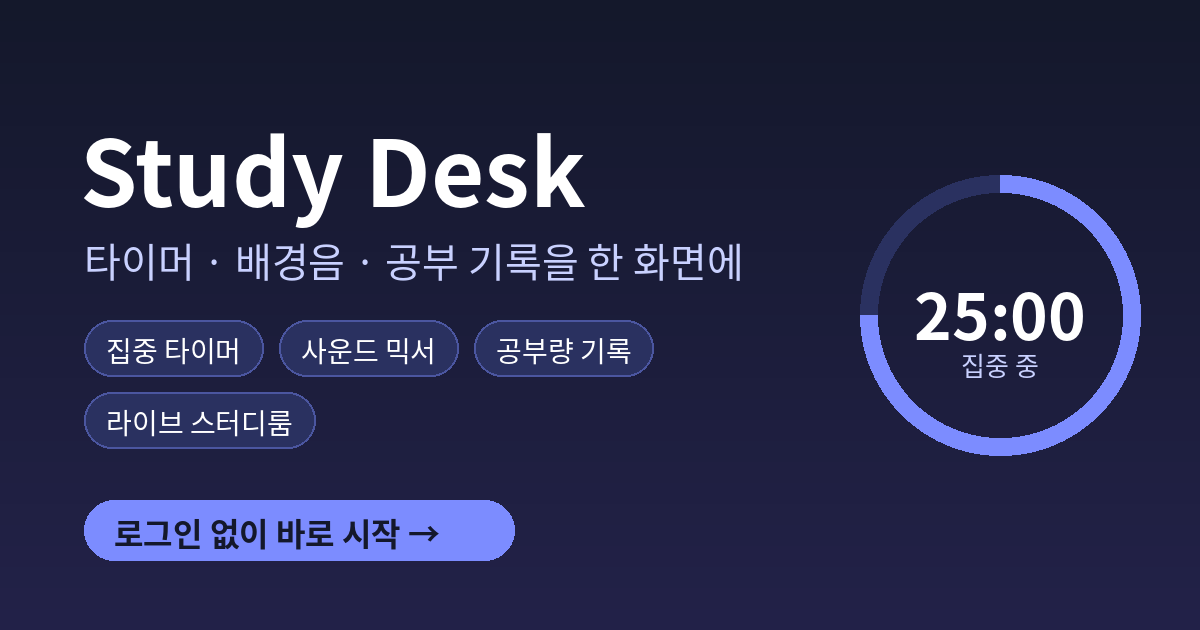
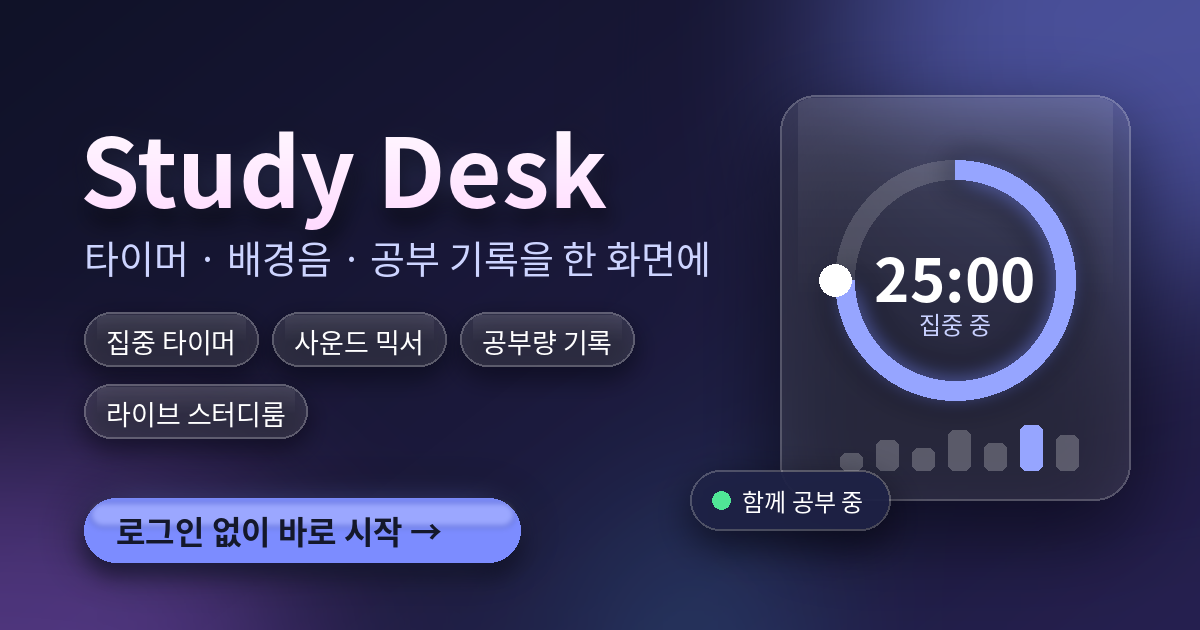
Redesign share preview image with 3D glass style
Claude-Session: https://claude.ai/code/session_01LyxCijokkD8nLoBGsyZehY

diff --git a/index.html b/index.html
@@ -15,7 +15,7 @@
 <meta property="og:title" content="Study Desk - 로그인 없이 바로 쓰는 공부 대시보드">
 <meta property="og:description" content="집중 타이머, 배경음, 공부량 기록, 라이브 스터디룸을 한 화면에서.">
 <meta property="og:url" content="https://ohjutaek.github.io/my-study-dashboard/">
-<meta property="og:image" content="https://ohjutaek.github.io/my-study-dashboard/og-image.png">
+<meta property="og:image" content="https://ohjutaek.github.io/my-study-dashboard/og-image.png?v=2">
 <meta property="og:image:width" content="1200">
 <meta property="og:image:height" content="630">
 <meta property="og:locale" content="ko_KR">
@@ -24,7 +24,7 @@
 <meta name="twitter:card" content="summary_large_image">
 <meta name="twitter:title" content="Study Desk - 로그인 없이 바로 쓰는 공부 대시보드">
 <meta name="twitter:description" content="집중 타이머, 배경음, 공부량 기록, 라이브 스터디룸을 한 화면에서.">
-<meta name="twitter:image" content="https://ohjutaek.github.io/my-study-dashboard/og-image.png">
+<meta name="twitter:image" content="https://ohjutaek.github.io/my-study-dashboard/og-image.png?v=2">
 
 <!-- 모바일 브라우저 상단 색 -->
 <meta name="theme-color" content="#14182b">
